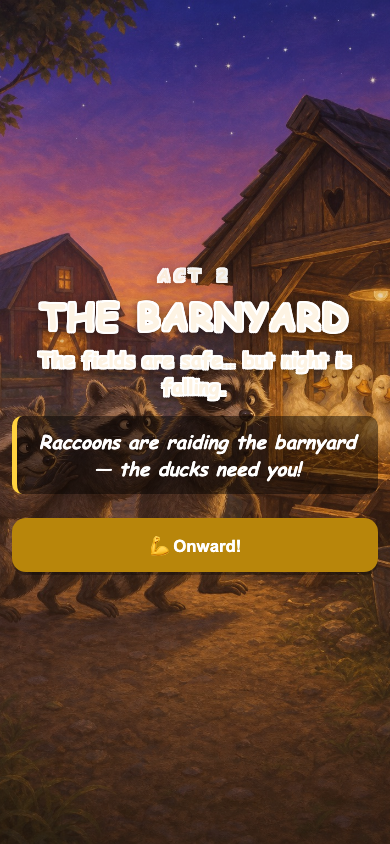
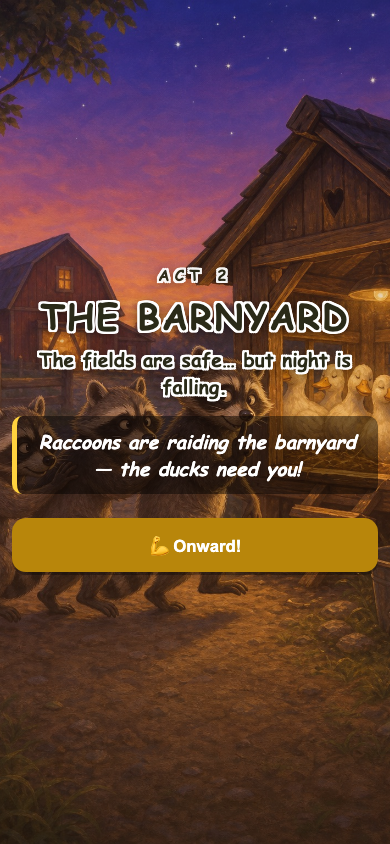
Victory beats + Coach's rotating tip library + playtest round fixes
- fade-out on fight wins -> Coach victory beat with one tip from a ~40-tip
  library (general + hero-gated + one vague title-screen tease); rotation
  persists per hero; fully unit-tested
- Game Face 1 -> upgraded FREE (spec'd, rebalance deferred); Heavy Haul
  upgrade text unfrozen (x3->x5 now visible; mechanics were always right)
- art fallback self-heals after flaky loads (12s retry) — fixes 'Combine
  turns to emoji in defensive mode'
- intent explainers: M.O. only, no counter-advice
- act cards: dark text + white outline consistently
- e2e: self-hosted static server, tip-dismissal at all seams, failure
  screenshots; 1290 unit, 65/65 e2e both engines

Claude-Session: https://claude.ai/code/session_01Cbg69vWxy62V8kH6VwwKG8

Changed region(s): [[0.3385, 0.3081, 0.8923, 0.4929], [0.0923, 0.3389, 0.3385, 0.4621]]

diff --git a/js/tips.js b/js/tips.js
@@ -1,0 +1,76 @@
+// Rolfe Legends 2 — Coach James's tip library (the victory-beat rotation).
+// Loading-screen-style wisdom: general strategy + hero-specific coaching,
+// served one per fight win. Sequential rotation per hero pool, so over many
+// runs a kid hears everything without repeats feeling constant.
+//
+// RULES: kid-plain words (no jargon), one sentence-ish each, and the Easter
+// egg tease stays VAGUE — no location, no method (the egg may move someday).
+
+export const TIPS_GENERAL = [
+  'Poison bites at the START of an enemy\'s turn, then shrinks by 1.',
+  'Drawing cards is sneaky-strong — more cards means more choices.',
+  'A SMALL deck can be mighty: you see your best cards more often.',
+  'Snacks do nothing in your pocket. The right snack at the right time wins fights.',
+  'Pick cards that work TOGETHER, not just cards that look cool.',
+  'Your Farm Treasures are always working. Tap them to remember what they do!',
+  'You can tap almost anything — statuses, treasures, the ⚡ — to learn what it means.',
+  'Tap the 🎴 draw pile and 🗑 discard pile to see what\'s coming back.',
+  'Your discard pile isn\'t gone! It shuffles back when the draw pile runs out.',
+  'Block wears off at the start of your turn. Don\'t save it — spend it!',
+  'Vulnerable enemies take EXTRA damage. That\'s the moment to pile on!',
+  'Weak enemies hit softer. Put Weak on the big hitters.',
+  '💀 fights are tough but drop Farm Treasures. Take the risk when you\'re healthy.',
+  'Granny can heal you OR upgrade a card. Upgrades last the whole run!',
+  'Upgrade the cards you play the most — the ⭐ lasts all run.',
+  'Removing a weak card at Dad\'s shop makes every draw better.',
+  'Watch the NEXT MOVE bubble. Plan your turn around what\'s coming.',
+  'Sometimes blocking everything beats attacking. Do the math!',
+  'Save some gold for Dad\'s treasures — they help in every single fight.',
+  'The map shows the whole act. Plan a path that hits the stops you need.',
+  'Rest BEFORE the boss. Walk in healthy.',
+  'Skipping a card reward is okay! Not every card fits your plan.',
+  'Enemies that power themselves up get scarier every turn. Deal with them first.',
+  'HP carries between fights — leave every fight as healthy as you can.',
+  '❓ stops are almost never a waste. The farm is full of friendly surprises.',
+  '"One use per fight" cards come back NEXT fight. Don\'t be shy — spend them!',
+  'The 📖 book on the map screen explains every icon and every word.',
+  'Legends say the title screen keeps a little secret. That\'s all I\'m sayin\'.',
+];
+
+export const TIPS_HERO = {
+  wyatt: [
+    'Soccer Balls cost 0 ⚡ — a flurry of little kicks adds up FAST.',
+    'Poison stacks! Keep adding it — it does the work while you dodge.',
+    'Footwork makes every block card bigger for the whole fight.',
+    'Discarding isn\'t losing a card — it comes back around. Cycle fast!',
+  ],
+  aaron: [
+    'Strength makes EVERY hit harder. Stack it early, swing big late.',
+    'Tornado Slam makes enemies Vulnerable — slam first, THEN unload.',
+    'TORNADO FORM wins long fights. Play it early if you\'re safe.',
+    'Aaron\'s big block cards can wall out a whole enemy turn. Time them!',
+  ],
+  liam: [
+    'More floating diapers means more zaps EVERY turn.',
+    'THE BLOWOUT grows every turn it floats. Let it get HUGE.',
+    'Giggle Power makes ALL your diapers stronger. Stack the giggles!',
+    'When the diapers are full, the OLDEST one pops to make room. Plan the order!',
+  ],
+};
+
+// sequential rotation per hero (general + that hero's tips interleaved),
+// position persisted so expertise builds across sessions
+export function nextTip(heroId, storage = localStorage) {
+  const hero = TIPS_HERO[heroId] || [];
+  const pool = [];
+  const per = hero.length ? Math.ceil(TIPS_GENERAL.length / hero.length) : TIPS_GENERAL.length + 1;
+  hero.forEach((t, i) => {
+    pool.push(...TIPS_GENERAL.slice(i * per, (i + 1) * per), t);
+  });
+  if (!hero.length) pool.push(...TIPS_GENERAL);
+  for (const t of TIPS_GENERAL.slice(hero.length * per)) pool.push(t);
+  const key = `rl2_tipidx_${heroId}`;
+  const idx = (Number(storage.getItem(key)) || 0) % pool.length;
+  storage.setItem(key, String(idx + 1));
+  return pool[idx];
+}

diff --git a/js/game.js b/js/game.js
@@ -15,6 +15,7 @@ import * as music from './music.js';
 import { creditsRoll } from './credits.js';
 import { encodeFarmCode, decodeFarmCode } from './farmcode.js';
 import { prefetch } from './prefetch.js';
+import { nextTip } from './tips.js';
 import { EVENT_KEYS } from './events.js';
 
 const $app = document.getElementById('app');
@@ -122,24 +123,32 @@ function sceneScreen(artPath, emoji, titleText) {
 }
 
 // ---------- drop-in art (PNG with emoji fallback) ----------
-const missingArt = new Set();
+const missingArt = new Map(); // path -> last failure time; retry after a beat
+const MISSING_RETRY_MS = 12000;
 function artImg(path, emoji, cls = '') {
   const wrap = el('span', `art-slot ${cls}`);
-  if (missingArt.has(path)) { wrap.textContent = emoji; wrap.classList.add('art-emoji'); return wrap; }
+  const failedAt = missingArt.get(path);
+  if (failedAt && Date.now() - failedAt < MISSING_RETRY_MS) {
+    wrap.textContent = emoji;
+    wrap.classList.add('art-emoji');
+    return wrap;
+  }
   const img = document.createElement('img');
   img.src = path;
   img.alt = '';
   img.draggable = false;
-  img.onerror = () => { missingArt.add(path); wrap.textContent = emoji; wrap.classList.add('art-emoji'); };
+  img.onload = () => missingArt.delete(path);
+  img.onerror = () => { missingArt.set(path, Date.now()); wrap.textContent = emoji; wrap.classList.add('art-emoji'); };
   wrap.appendChild(img);
   return wrap;
 }
 function bgLayer(path, cls = 'scene-bg') {
   const d = el('div', cls);
-  if (!missingArt.has(path)) {
+  const failedAt = missingArt.get(path);
+  if (!failedAt || Date.now() - failedAt >= MISSING_RETRY_MS) {
     const probe = new Image();
-    probe.onload = () => { d.style.backgroundImage = `url("${path}")`; d.classList.add('has-art'); };
-    probe.onerror = () => missingArt.add(path);
+    probe.onload = () => { missingArt.delete(path); d.style.backgroundImage = `url("${path}")`; d.classList.add('has-art'); };
+    probe.onerror = () => missingArt.set(path, Date.now());
     probe.src = path;
   }
   return d;
@@ -646,7 +655,7 @@ const INTENT_KIND_INFO = {
   defend: (name) => `🛡 Next move — ${name}: it will protect itself with Block.`,
   buff: (name) => `⬆ Next move — ${name}: it will power itself (or its friends) up.`,
   debuff: (name) => `🌀 Next move — ${name}: it will hit YOU with something nasty.`,
-  sleep: (name) => `😴 ${name} — it isn't doing anything… yet. (Attacking it will wake it up!)`,
+  sleep: (name) => `😴 ${name} — it's just… standing there. For now.`,
   flee: (name) => `🪽 Next move — ${name}: it's about to run away!`,
   summon: (name) => `➕ Next move — ${name}: it will call in friends.`,
   countdown: (name) => `⏳ ${name}: something BIG is charging up. The number is the countdown.`,

diff --git a/js/cards.js b/js/cards.js
@@ -50,8 +50,8 @@ export const CARDS = {
   one_two:      { hero: 'aaron', name: 'One-Two Punch', emoji: '👊', type: 'attack', cost: 1, rarity: 'common', sts: 'Twin Strike',
                   text: 'Deal {d} damage twice.', fx: [{ dmg: 5, times: 2 }], up: { fx: [{ dmg: 7, times: 2 }] } },
   heavy_haul:   { hero: 'aaron', name: 'Heavy Haul', emoji: '🏋', type: 'attack', cost: 2, rarity: 'common', sts: 'Heavy Blade',
-                  text: 'Deal {d} damage. Strength counts 3 times.', special: 'heavy_haul', base: 14, strMult: 3,
-                  up: { base: 14, strMult: 5 } },
+                  text: 'Deal {d} damage. Strength counts {n} TIMES.', special: 'heavy_haul', base: 14, strMult: 3, pn: 3,
+                  up: { base: 14, strMult: 5, pn: 5 } },
   iron_wave:    { hero: 'aaron', name: 'Wheelbarrow Rush', emoji: '🛞', type: 'attack', cost: 1, rarity: 'common', sts: 'Iron Wave',
                   text: 'Deal {d} damage. Gain {b} Block.', fx: [{ dmg: 5 }, { block: 5 }], up: { fx: [{ dmg: 7 }, { block: 7 }] } },
   shake_it_off: { hero: 'aaron', name: 'Shake It Off', emoji: '🐕', type: 'skill', cost: 1, rarity: 'common', sts: 'Shrug It Off',
@@ -64,8 +64,8 @@ export const CARDS = {
                   text: 'Deal {d} damage. Apply 1 Weak and 1 Vulnerable.',
                   fx: [{ dmg: 13 }, { status: { k: 'weak', n: 1, target: 'target' } }, { status: { k: 'vulnerable', n: 1, target: 'target' } }],
                   up: { fx: [{ dmg: 13 }, { status: { k: 'weak', n: 2, target: 'target' } }, { status: { k: 'vulnerable', n: 2, target: 'target' } }] } },
-  game_face:    { hero: 'aaron', name: 'Game Face', emoji: '😤', type: 'skill', cost: 0, rarity: 'uncommon', sts: 'Battle Trance',
-                  text: 'Draw 3 cards.', fx: [{ draw: 3 }], up: { fx: [{ draw: 4 }] } },
+  game_face:    { hero: 'aaron', name: 'Game Face', emoji: '😤', type: 'skill', cost: 1, rarity: 'uncommon', sts: 'Battle Trance',
+                  text: 'Draw 3 cards.', fx: [{ draw: 3 }], up: { cost: 0 } },
   all_out:      { hero: 'aaron', name: 'All-Out Effort', emoji: '😮💨', type: 'skill', cost: 0, rarity: 'rare', sts: 'Offering',
                   text: 'Wear yourself out: lose 6 HP. Gain 2 ⚡. Draw 3 cards. One use per fight!',
                   fx: [{ loseHp: 6 }, { energy: 2 }, { draw: 3 }], exhausts: true,

diff --git a/style.css b/style.css
@@ -18,6 +18,14 @@ body {
 .screen.plain { background: linear-gradient(#20304a, #1a2436); }
 
 .screen-enter { animation: screenin .32s ease; }
+.screen-fade-out { animation: screenout calc(var(--fx, 1) * .5s) ease forwards; }
+@keyframes screenout { to { opacity: 0; } }
+.victory-beat { justify-content: center; }
+.tip-card {
+  background: #fdf6e3; color: #2a2a18; border: 3px solid #b8860b; border-radius: 14px;
+  padding: 12px 16px; margin: 10px auto; max-width: 420px; font-size: 1rem; line-height: 1.4;
+  box-shadow: 0 4px 12px rgba(0,0,0,.25);
+}
 @keyframes screenin { from { opacity: 0; transform: translateY(10px); } to { opacity: 1; transform: none; } }
 
 h1, h2 { text-align: center; text-shadow: 0 2px 6px rgba(0,0,0,.25); letter-spacing: .02em; }
@@ -477,9 +485,10 @@ h1, h2 { text-align: center; text-shadow: 0 2px 6px rgba(0,0,0,.25); letter-spac
 .act-card { justify-content: center; position: relative; text-align: center; }
 .act-card .battle-bg.has-art { opacity: .55; }
 .act-card-inner { position: relative; z-index: 1; display: flex; flex-direction: column; gap: 6px; }
-/* title-screen treatment: white outline + dark glow so the story text reads
-   over ANY act art (act 1's dark text on bright corn was the offender) */
+/* title-screen treatment: DARK text + white outline on every act (light text
+   with a white outline turned to mush on act 2's dusk art) */
 .act-card-kicker, .act-card-name, .act-card-sub {
+  color: #2a2a18;
   text-shadow:
     -2px -2px 0 #fff, 2px -2px 0 #fff, -2px 2px 0 #fff, 2px 2px 0 #fff,
     -2px 0 0 #fff, 2px 0 0 #fff, 0 -2px 0 #fff, 0 2px 0 #fff,

diff --git a/sw.js b/sw.js
@@ -4,12 +4,12 @@
 // Art + music = cache-first, filled lazily as fetched during play (precaching
 // the full set would punish the first visit; emoji/silence fallbacks already
 // handle anything not yet cached when offline). RL1 sw.js pattern.
-const CACHE = 'rolfe-legends-2-v5';
+const CACHE = 'rolfe-legends-2-v6';
 const SHELL = [
   './', 'index.html', 'style.css', 'manifest.json',
   'js/game.js', 'js/combat.js', 'js/run.js', 'js/map.js', 'js/cards.js',
   'js/enemies.js', 'js/relics.js', 'js/events.js', 'js/rng.js',
-  'js/sfx.js', 'js/music.js', 'js/credits.js', 'js/farmcode.js', 'js/prefetch.js',
+  'js/sfx.js', 'js/music.js', 'js/credits.js', 'js/farmcode.js', 'js/prefetch.js', 'js/tips.js',
 ];
 
 self.addEventListener('install', (e) => {

diff --git a/PROGRESS.md b/PROGRESS.md
@@ -2,6 +2,17 @@
 
 Running log per GOAL.md. Newest entry first. Harness = `node test/selfplay.mjs 300`.
 
+## 2026-08-02 · Victory beats + Coach's tip library + a fistful of playtest fixes
+
+- **Fight wins fade out** (no more abrupt cut) into a **victory beat**: Coach James congratulates by enemy name and serves ONE tip from a ~40-tip rotating library (js/tips.js) — general strategy, hero-specific coaching (Liam's only while playing him — zero-hint safe), and one deliberately vague title-screen tease (no location/method; the egg may move someday). Sequential rotation per hero persists across sessions; unit-tested (full coverage, no cross-hero leaks, no jargon, tease stays vague).
+- Boss wins keep their bigger splash (now also faded into).
+- **Game Face**: costs 1, upgrade makes it FREE (James's spec; balance check deferred).
+- **Heavy Haul** upgrade was real (Str ×3→×5) but the text was frozen at "3 times" — now shows {n}.
+- **Art fallback self-heals**: one flaky image load no longer pins an enemy/scene to emoji for the whole session (12s retry window; James's "Combine switches to emoji in defensive mode" — there is no mode-swap art, that was the sticky fallback).
+- **Intent explainers describe the M.O. only** — cut counter-advice ("attacking wakes it up") per James: many answers is the point.
+- **Act cards: dark text + white outline on all acts** (light-on-white was mush on act 2).
+- **e2e self-hosts** its static server (the external one kept dying) and dismisses persistent coach bubbles at every seam; failure screenshots on outcome asserts. 1290 unit · 65/65 e2e both engines.
+
 ## 2026-08-02 · Karaoke desync bug (Aaron's credits) — found & fixed
 
 James saw "something weird with Aaron's karaoke, maybe one-time." Root cause: if the anthem started late (uncached first load / blocked autoplay), the credits' wall-clock rescue ran the captions ahead; when the song then started at 0:00 the clock jumped BACKWARD, but caption/scene indices only advanced forward → karaoke stuck seconds ahead for the whole roll. Cached second plays start instantly, hence "one-time." Fix: indices recompute from scratch every frame (both directions) and lit words un-light on resync. Repro'd the failure and verified the fix live (caption visibly ahead on wall clock → cleared on song start → back in sync at 13.6s, 3 words lit on beat). Aaron's LRC data itself audited clean (monotonic, no bunching, no stray tokens — all four anthems).
